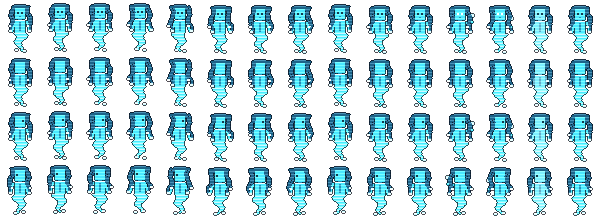
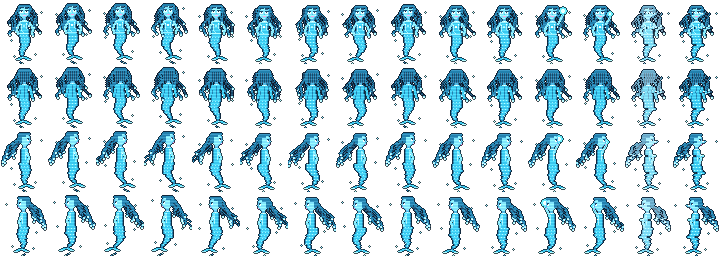
IARA redesenhada: rosto, cabelo de cabos flutuando, corpete de circuito e cauda de sereia com nadadeira

diff --git a/tools/gerar_sprites.py b/tools/gerar_sprites.py
@@ -3329,67 +3329,193 @@ def cauanzera_ti(p):
 
 
 def iara(p):
-    """IARA: o holograma da Inteligência Artificial de Resposta Administrativa. Uma moça de
-    holograma ciano com o cabelo feito de cabos de rede e, no lugar das pernas, uma cauda de
-    dados (como a Iara da lenda, que mora no rio). Ela flutua e as linhas de varredura correm."""
-    c = Canvas(40, 54)
+    """IARA: o holograma da Inteligência Artificial de Resposta Administrativa. Uma moça de luz
+    ciano, de rosto delicado e olhos brilhando, com o cabelo feito de dezenas de cabos de rede
+    flutuando como se estivesse debaixo d'água (cada um com o conector na ponta), um corpete com
+    trilhas de circuito e, no lugar das pernas, uma cauda de sereia feita de dados, com escamas e
+    a nadadeira dupla, como a Iara da lenda que mora no rio. No ataque ela ergue a mão e acende um
+    prompt; levando dano, o holograma falha e fica mais transparente."""
+    c = Canvas(48, 64)
     sway = WALK_FLOAT[p.frame] if p.kind == "andar" else (-1, 0)[p.frame] if p.kind == "parado" else 0
-    raise_ = (0, 2, 1)[p.frame] if p.kind == "ataque" else 0
-    flick = p.hurt
-    a = 170 if flick else 235
-    body, body_d, body_l = (*IARA, a), (*IARA_D, a), (*IARA_L, a)
-    cx, top = 20, 6 + sway
-    # cauda de dados (afina para baixo e balança)
-    for k in range(18):
-        yy = top + 28 + k
-        half = max(1, 6 - k // 3)
-        off = round(math.sin((k + p.frame * 2) * 0.5) * 2)
-        c.rect(cx - half + off, yy, half * 2, 1, body if k % 3 else body_l)
-    c.rect(cx - 5, top + 44, 3, 2, body_l)                                # nadadeira da cauda
-    c.rect(cx + 3, top + 45, 3, 2, body_l)
-    # tronco e braços
-    c.rect(cx - 5, top + 15, 10, 13, body)
-    c.rect(cx - 5, top + 15, 10, 1, body_l)
-    c.rect(cx - 1, top + 17, 2, 9, body_d)                                # "gravata" de circuito
-    for side in (-1, 1):
-        ax = cx + side * 6
-        if p.dir == "costas":
-            c.rect(ax - 1, top + 16, 2, 9, body_d)
+    cast = (0, 2, 1)[p.frame] if p.kind == "ataque" else 0
+    t = p.frame
+    a = 160 if p.hurt else 238
+    deep, dark, mid = (8, 60, 96, a), (18, 120, 168, a), (44, 196, 238, a)
+    light, white = (150, 240, 255, a), (236, 255, 255, 250)
+    skin, skin_d = (120, 226, 252, a), (70, 180, 226, a)
+    lips = (255, 160, 226, a)
+    cx, top = 24, 7 + sway
+    face = p.dir == "frente"
+    back = p.dir == "costas"
+    side = p.side
+
+    def wave(k, phase=0.0, amp=1.5):
+        return round(math.sin(k * 0.32 + t * 0.8 + phase) * amp)
+
+    # ── cabelo de cabos de rede, atrás de tudo (flutua como debaixo d'água) ──
+    strands = 14 if not side else 9
+    for k in range(strands):
+        if side:
+            ox, spread = cx - 1 - k % 3, -1 - k * 0.12
+        else:
+            ox = cx - 6 + (k * 12) // (strands - 1)
+            spread = (k - (strands - 1) / 2) / ((strands - 1) / 2)       # -1 (esquerda) .. 1 (direita)
+        length = 18 + (k * 5) % 13
+        col = deep if k % 3 == 0 else dark
+        x = float(ox)
+        for yy in range(top + 2, top + length):
+            d = yy - top
+            x = ox + spread * (d * 0.45) + wave(d, k * 0.9, 1.2 + d * 0.04)
+            c.px(round(x), yy, col)
+            if k % 2 == 0:
+                c.px(round(x) + (1 if spread >= 0 else -1), yy, col)
+        ex = round(x)
+        c.rect(ex, top + length, 2, 2, light)                            # conector RJ45
+        c.px(ex, top + length + 1, white)
+    # bolinhas de dados soltas em volta
+    for k, (bx, by) in enumerate(((cx - 17, top + 10), (cx + 16, top + 6), (cx - 14, top + 34),
+                                  (cx + 15, top + 30), (cx - 9, top + 50), (cx + 11, top + 48))):
+        if (k + t) % 3:
+            c.px(bx + wave(k, k), by - (t % 4), light)
+
+    # ── cauda de sereia feita de dados ──
+    tail_top = top + 29
+    for k in range(22):
+        yy = tail_top + k
+        half = 5 if k < 4 else max(1, 5 - (k - 4) // 4)
+        off = round(math.sin(k * 0.28 + t * 0.7) * (1 + k * 0.08)) + (k // 6 if side else 0)
+        x0 = cx - half + off
+        c.rect(x0, yy, half * 2, 1, mid)
+        c.px(x0, yy, dark)
+        c.px(x0 + half * 2 - 1, yy, dark)
+        if half >= 2 and (k + t) % 3 == 0:                               # escamas
+            for sx in range(x0 + 1, x0 + half * 2 - 1, 3):
+                c.px(sx, yy, light)
+                c.px(sx + 1, yy + 1, light)
+        last = (x0, half, yy)
+    fx, _, fy = last
+    fin_off = round(math.sin(t * 0.7) * 2)
+    for k in range(6):                                                   # nadadeira dupla
+        c.rect(fx - 1 - k + fin_off, fy + 1 + k // 2, 3, 1, mid if k < 4 else light)
+        c.rect(fx + 1 + k + fin_off, fy + 1 + k // 2, 3, 1, mid if k < 4 else light)
+    c.px(fx + fin_off, fy + 1, light)
+    for k in range(3):                                                   # rastro de bits
+        c.px(fx + fin_off - 2 + k * 2, fy + 6 + k, light if (k + t) % 2 else dark)
+
+    # ── corpete com trilhas de circuito ──
+    by = top + 15
+    widths = (10, 10, 10, 9, 8, 8, 8, 8, 9, 10, 10, 10, 10, 10)
+    for k, wdt in enumerate(widths):
+        if side:
+            wdt = max(6, wdt - 3)
+        x0 = cx - wdt // 2
+        c.rect(x0, by + k, wdt, 1, mid)
+        c.px(x0, by + k, dark)
+        c.px(x0 + wdt - 1, by + k, dark if not side else mid)
+    if face:
+        c.rect(cx - 4, by, 8, 1, light)                                  # decote
+        c.line(cx - 3, by + 3, cx - 3, by + 9, light, 1)                 # trilhas de circuito
+        c.line(cx - 3, by + 9, cx - 1, by + 11, light, 1)
+        c.line(cx + 2, by + 2, cx + 2, by + 7, light, 1)
+        c.line(cx + 2, by + 7, cx + 3, by + 8, light, 1)
+        c.px(cx - 3, by + 3, white)
+        c.px(cx + 2, by + 2, white)
+        c.rect(cx - 1, by + 4, 2, 2, white if (t % 2 or cast) else light)   # o "coração" (a lasca)
+        c.rect(cx - 5, by + 12, 10, 1, light)                            # cinto de LED
+    elif back:
+        c.line(cx, by + 1, cx, by + 12, dark, 1)
+    else:
+        c.line(cx + 1, by + 3, cx + 1, by + 10, light, 1)
+        c.px(cx + 2, by + 5, white)
+
+    # ── braços (finos, com as mangas de luz) ──
+    for sgn in (-1, 1):
+        if side and sgn == -1:
             continue
-        up = raise_ if side == 1 else 0
-        c.line(ax, top + 16, ax + side * (3 + up), top + 25 - up * 5, body, 2)
-        if up:
-            c.rect(ax + side * (3 + up) - 1, top + 14 - up * 3, 4, 3, body_l)   # mão erguida (prompt)
-    # cabeça
-    c.rect(cx - 5, top + 3, 10, 11, body)
-    c.rect(cx - 4, top + 2, 8, 1, body)
-    c.rect(cx - 2, top + 14, 4, 1, body_d)                                # pescoço
-    # cabelo de cabos de rede caindo pelos lados, com os conectores na ponta
-    hair_c = (14, 90, 130, 240)
-    for k, hx in enumerate((cx - 9, cx - 7, cx + 6, cx + 8)):
-        length = 20 + (k % 2) * 5
-        spread = -1 if hx < cx else 1
-        for yy in range(top + 1, top + length):
-            off = round(math.sin((yy + p.frame * 2 + k) * 0.35) * 1.5) + spread * ((yy - top) // 9)
-            c.rect(hx + off, yy, 2, 1, hair_c)
-        end = hx + spread * (length // 9) + round(math.sin((top + length + p.frame * 2 + k) * 0.35) * 1.5)
-        c.rect(end - 1, top + length, 3, 2, (230, 255, 255, 240))      # conector RJ45 na ponta
-    c.rect(cx - 6, top, 12, 3, hair_c)                                    # franja
-    c.rect(cx - 7, top + 1, 2, 4, hair_c)
-    c.rect(cx + 5, top + 1, 2, 4, hair_c)
-    if p.dir == "frente":
-        eye = (255, 255, 255) if raise_ else (20, 60, 80)
-        c.rect(cx - 3, top + 7, 2, 2, eye)
-        c.rect(cx + 1, top + 7, 2, 2, eye)
-        c.rect(cx - 1, top + 11, 2, 1, body_d)
-    elif p.side:
-        c.rect(cx + 2, top + 7, 2, 2, (20, 60, 80))
-    for yy in range(top, min(c.h, top + 48), 3):                          # linhas de varredura (só no corpo)
+        sx = cx + sgn * 5 if not side else cx + 1
+        up = cast if (sgn == 1 or side) else 0
+        if back:
+            c.line(sx, by + 1, sx + sgn * 2, by + 11, mid, 2)
+            continue
+        if up:                                                           # mão erguida com o prompt
+            hx, hy = sx + sgn * (3 + up), by - 4 - up * 3
+            c.line(sx, by + 1, hx, hy + 2, skin, 2)
+            c.px(hx, hy + 3, dark)
+            r = 2 + up
+            pygame.draw.circle(c.surf, (*IARA, 200), (hx + sgn, hy - 1), r)
+            pygame.draw.circle(c.surf, white, (hx + sgn, hy - 1), max(1, r - 2))
+        else:
+            ex, ey = sx + sgn * 3, by + 7
+            c.line(sx, by + 1, ex, ey, skin, 2)
+            c.line(ex, ey, ex - sgn, by + 12, skin, 2)
+            c.px(ex - sgn, by + 13, skin)                                # mão
+        c.px(sx, by + 1, light)
+
+    # ── pescoço e cabeça ──
+    c.rect(cx - 1, top + 12, 3, 3, skin_d)
+    c.rect(cx - 2, top + 14, 5, 1, light)                                # gargantilha
+    c.px(cx, top + 14, white)
+    rows = (6, 8, 10, 10, 10, 10, 10, 10, 9, 8, 6, 4)
+    hx0 = cx - 5 + (1 if side else 0)
+    for k, wdt in enumerate(rows):
+        x0 = cx - wdt // 2 + (1 if side else 0)
+        c.rect(x0, top + k, wdt, 1, skin if not back else dark)
+        if not back:
+            c.px(x0 + wdt - 1, top + k, skin_d)                          # sombra do lado
+    if side:
+        c.px(cx + 6, top + 6, skin)                                      # nariz de perfil
+        c.px(cx + 5, top + 9, lips)
+    # franja e topo do cabelo
+    c.rect(cx - 5, top - 1, 11, 2, dark)
+    c.rect(cx - 6, top, 2, 6, dark)
+    if not side:
+        c.rect(cx + 5, top, 2, 6, dark)
+    if face:
+        c.rect(cx - 4, top + 1, 4, 1, deep)                              # franja repartida
+        c.rect(cx + 1, top + 1, 3, 2, deep)
+        c.px(cx - 4, top + 2, deep)
+    elif back:
+        c.rect(cx - 5, top, 11, 12, dark)
+        for k in range(cx - 4, cx + 6, 2):
+            c.rect(k, top + 2, 1, 10, deep)
+    else:
+        c.rect(cx - 4, top, 6, 3, dark)
+        c.rect(cx - 5, top, 3, 9, dark)
+    # rosto
+    if face:
+        glow_eye = white if cast or p.kind == "parado" or p.kind == "andar" else light
+        for ex in (cx - 4, cx + 1):
+            c.rect(ex, top + 5, 3, 2, white)                             # branco do olho
+            c.px(ex + 1, top + 5, (10, 50, 80, 255))                     # íris
+            c.px(ex + 1, top + 6, glow_eye if not p.hurt else (10, 50, 80, 255))
+            c.rect(ex, top + 4, 3, 1, deep)                              # cílios
+        c.px(cx - 5, top + 4, deep)
+        c.px(cx + 4, top + 4, deep)
+        c.px(cx, top + 7, skin_d)                                        # nariz
+        if p.hurt:
+            c.rect(cx - 1, top + 9, 3, 1, skin_d)
+        else:
+            c.rect(cx - 1, top + 9, 3, 1, lips)                          # boca
+            c.px(cx - 2, top + 8, lips) if cast else None
+        c.px(cx - 4, top + 8, (180, 230, 255, a))                        # bochechas
+        c.px(cx + 3, top + 8, (180, 230, 255, a))
+    elif side:
+        c.rect(cx + 3, top + 5, 2, 2, white)
+        c.px(cx + 4, top + 5, (10, 50, 80, 255))
+        c.rect(cx + 3, top + 4, 2, 1, deep)
+
+    # ── linhas de varredura e falha do holograma ──
+    for yy in range(0, c.h, 3):
         for xx in range(c.w):
             col = c.surf.get_at((xx, yy))
             if col[3]:
-                c.surf.set_at((xx, yy), (*shade(col, 50), col[3]))
-    c.hand = (cx + 9, top + 14)
+                c.surf.set_at((xx, yy), (*shade(col, 28), col[3]))
+    if p.hurt or p.kind == "esquiva":                                    # glitch: faixas deslocadas
+        for yy in (top + 6, top + 20, top + 37):
+            band = c.surf.subsurface((0, yy, c.w, 2)).copy()
+            c.surf.fill((0, 0, 0, 0), (0, yy, c.w, 2))
+            c.surf.blit(band, (3, yy))
+    c.hand = (cx + 9, top + 12)
     return c
 
 
